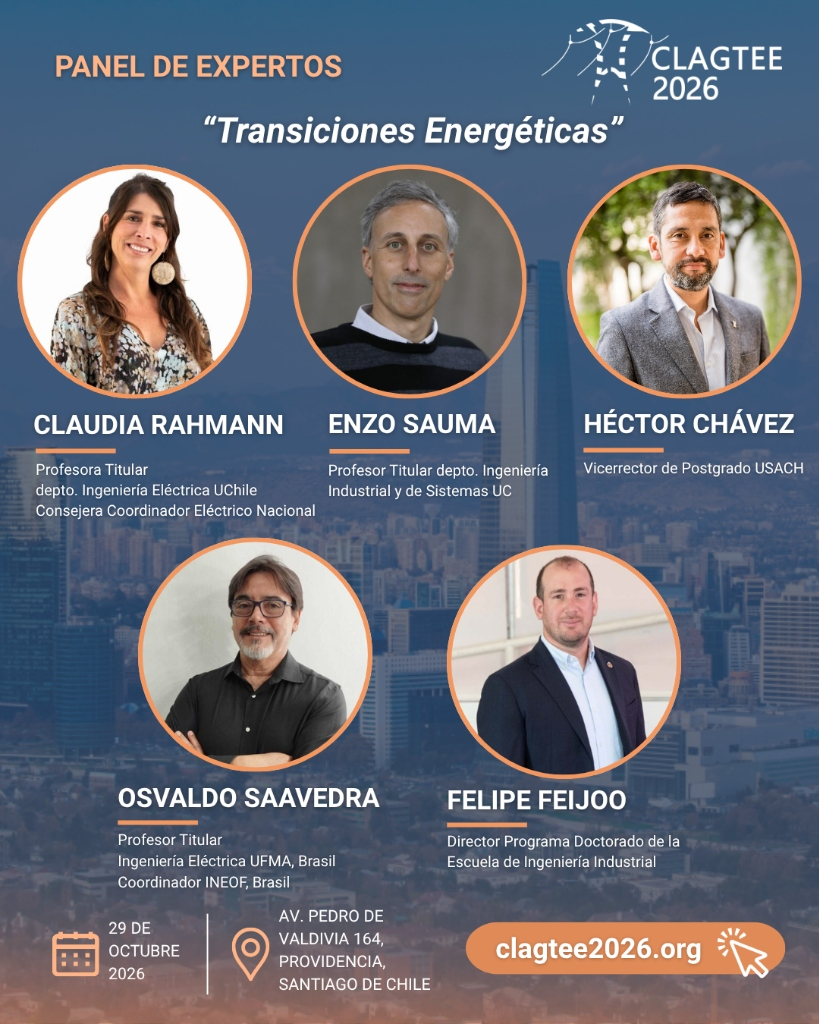
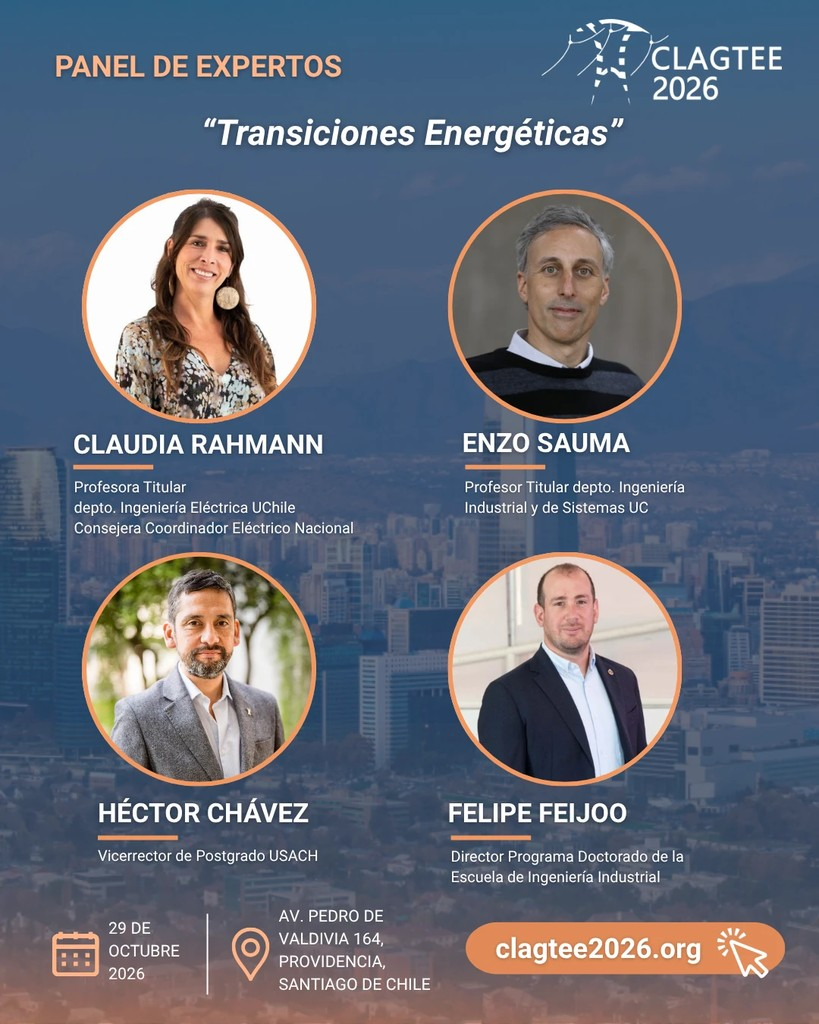
chore(speakers): update Transiciones Energéticas panel poster (#18)
New poster with four panelists: Osvaldo Saavedra is no longer on the
panel, so he is removed from the ES/EN/PT panelist lists and the
description now speaks only of Chile.

Claude-Session: https://claude.ai/code/session_01WZpjFzsh4jVwTGP5GXAhAJ

diff --git a/data/translations/pt.ts b/data/translations/pt.ts
@@ -1110,7 +1110,7 @@ export const contentPT: Content = {
           "tagline": "Perspectivas regulatórias, acadêmicas e tecnológicas na evolução do setor energético",
           "date": "29 de Outubro de 2026",
           "imageUrl": "/speakers/panel-transiciones-energeticas.jpg",
-          "description": "Painel de alto nível reunindo lideranças da academia e de órgãos do setor elétrico do Chile e do Brasil para debater os desafios estratégicos, técnicos e regulatórios das transições energéticas.",
+          "description": "Painel de alto nível reunindo lideranças da academia e de órgãos do setor elétrico do Chile para debater os desafios estratégicos, técnicos e regulatórios das transições energéticas.",
           "panelists": [
             {
               "name": "Claudia Rahmann",
@@ -1126,11 +1126,6 @@ export const contentPT: Content = {
               "name": "Héctor Chávez",
               "role": "Pró-Reitor de Pós-Graduação",
               "affiliation": "Universidade de Santiago do Chile (USACH)"
-            },
-            {
-              "name": "Osvaldo Saavedra",
-              "role": "Professor Titular Eng. Elétrica UFMA, Brasil",
-              "affiliation": "Coordenador INEOF, Brasil"
             },
             {
               "name": "Felipe Feijoo",

diff --git a/data/translations/es.ts b/data/translations/es.ts
@@ -1110,7 +1110,7 @@ export const contentES: Content = {
           "tagline": "Perspectivas regulatorias, académicas y tecnológicas en la evolución del sector energético",
           "date": "29 de Octubre 2026",
           "imageUrl": "/speakers/panel-transiciones-energeticas.jpg",
-          "description": "Destacado panel de discusión con referentes de la academia y organismos reguladores de Chile y Brasil para debatir los desafíos estratégicos, técnicos y regulatorios de las transiciones energéticas.",
+          "description": "Destacado panel de discusión con referentes de la academia y organismos reguladores de Chile para debatir los desafíos estratégicos, técnicos y regulatorios de las transiciones energéticas.",
           "panelists": [
             {
               "name": "Claudia Rahmann",
@@ -1126,11 +1126,6 @@ export const contentES: Content = {
               "name": "Héctor Chávez",
               "role": "Vicerrector de Postgrado",
               "affiliation": "Universidad de Santiago de Chile (USACH)"
-            },
-            {
-              "name": "Osvaldo Saavedra",
-              "role": "Profesor Titular Ingeniería Eléctrica UFMA, Brasil",
-              "affiliation": "Coordinador INEOF, Brasil"
             },
             {
               "name": "Felipe Feijoo",

diff --git a/data/translations/en.ts b/data/translations/en.ts
@@ -1110,7 +1110,7 @@ export const contentEN: Content = {
           "tagline": "Regulatory, academic, and technological perspectives on the evolution of the energy sector",
           "date": "October 29, 2026",
           "imageUrl": "/speakers/panel-transiciones-energeticas.jpg",
-          "description": "Distinguished panel discussion featuring leading academic and regulatory figures from Chile and Brazil exploring the strategic, technical, and regulatory challenges of energy transitions.",
+          "description": "Distinguished panel discussion featuring leading academic and regulatory figures from Chile exploring the strategic, technical, and regulatory challenges of energy transitions.",
           "panelists": [
             {
               "name": "Claudia Rahmann",
@@ -1126,11 +1126,6 @@ export const contentEN: Content = {
               "name": "Héctor Chávez",
               "role": "Vice Rector of Postgraduate Studies",
               "affiliation": "Universidad de Santiago de Chile (USACH)"
-            },
-            {
-              "name": "Osvaldo Saavedra",
-              "role": "Full Professor, Electrical Engineering UFMA, Brazil",
-              "affiliation": "Coordinator INEOF, Brazil"
             },
             {
               "name": "Felipe Feijoo",
